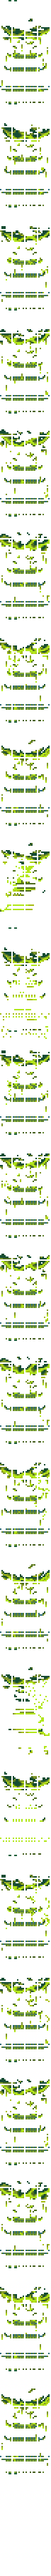
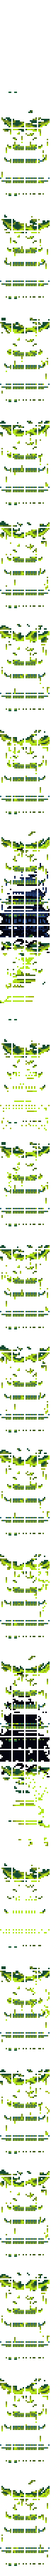
Old Duke Monolith is now IN THE GAME
Elden Diorama

diff --git a/Tiles/Furniture/Monoliths/OldDukeMonolithTile.cs b/Tiles/Furniture/Monoliths/OldDukeMonolithTile.cs
@@ -1,5 +1,6 @@
 using CalamityMod.Buffs.Potions;
 using CalamityMod.Dusts;
+using CalamityMod.ForegroundDrawing.LoopingTextures;
 using CalamityMod.Items.Dyes;
 using CalamityMod.Items.Placeables.Furniture.Monoliths;
 using CalamityMod.NPCs.Yharon;
@@ -24,7 +25,7 @@ namespace CalamityMod.Tiles.Furniture.Monoliths
     {
         public override int TileWidth => 4;
         public override int TileHeight => 8;
-        public override int AnimationFrameCount => 25;
+        public override int AnimationFrameCount => 24;
         public override int AnimationDelay => 6;
         public override int CursorItemType => ModContent.ItemType<OldDukeMonolith>();
 
@@ -48,7 +49,7 @@ namespace CalamityMod.Tiles.Furniture.Monoliths
             TileObjectData.newTile.UsesCustomCanPlace = true;
             TileObjectData.newTile.AnchorBottom = new AnchorData(AnchorType.SolidTile | AnchorType.SolidWithTop, 3, 0);
             
-            AnimationFrameHeight = 8;
+            AnimationFrameHeight = 8 * 18;
             TileObjectData.newTile.CoordinateHeights = [16, 16, 16, 16, 16, 16, 16, 16];
             TileObjectData.addTile(Type);
 
@@ -62,9 +63,10 @@ namespace CalamityMod.Tiles.Furniture.Monoliths
             if (!monolithEnabled)
                 return;
 
-            /*if (localPlayer is not null && localPlayer.active)
-                 = 30;
-            */
+            if (localPlayer is not null && localPlayer.active)
+            {
+                localPlayer.GetModPlayer<NuclearTorrentPlayer>().ShouldDisplayTorrentMonolith = true;
+            }
         }
 
         public override void DrawExtra(Vector2 drawPos, Rectangle rect, Color tileColor)

diff --git a/ForegroundDrawing/LoopingTextures/NuclearTorrentForeground.cs b/ForegroundDrawing/LoopingTextures/NuclearTorrentForeground.cs
@@ -12,6 +12,14 @@ using Terraria.ModLoader;
 
 namespace CalamityMod.ForegroundDrawing.LoopingTextures
 {
+    public class NuclearTorrentPlayer : ModPlayer
+    {
+        public bool ShouldDisplayTorrentMonolith = false;
+        public override void ResetEffects()
+        {
+            ShouldDisplayTorrentMonolith = false;
+        }
+    }
     public class NuclearTorrentForeground : LoopingTextureForeground
     {
         public override Vector2 ParallaxDepth => new Vector2(1f, 1f);
@@ -59,7 +67,9 @@ namespace CalamityMod.ForegroundDrawing.LoopingTextures
             Raindrops.Remove(drop);
         }
 
-        public override bool DoesThisShow() => NPC.CountNPCS(ModContent.NPCType<OldDuke>()) > 0 && Main.LocalPlayer.Calamity().ZoneSulphur && !CalamityServerConfig.Instance.BossesStopWeather;
+        public bool ShouldDisplayDuringOldDuke() => NPC.CountNPCS(ModContent.NPCType<OldDuke>()) > 0 && Main.LocalPlayer.Calamity().ZoneSulphur && !CalamityServerConfig.Instance.BossesStopWeather;
+
+        public override bool DoesThisShow() => ShouldDisplayDuringOldDuke() || Main.LocalPlayer.GetModPlayer<NuclearTorrentPlayer>().ShouldDisplayTorrentMonolith;
 
         public override void Update()
         {
